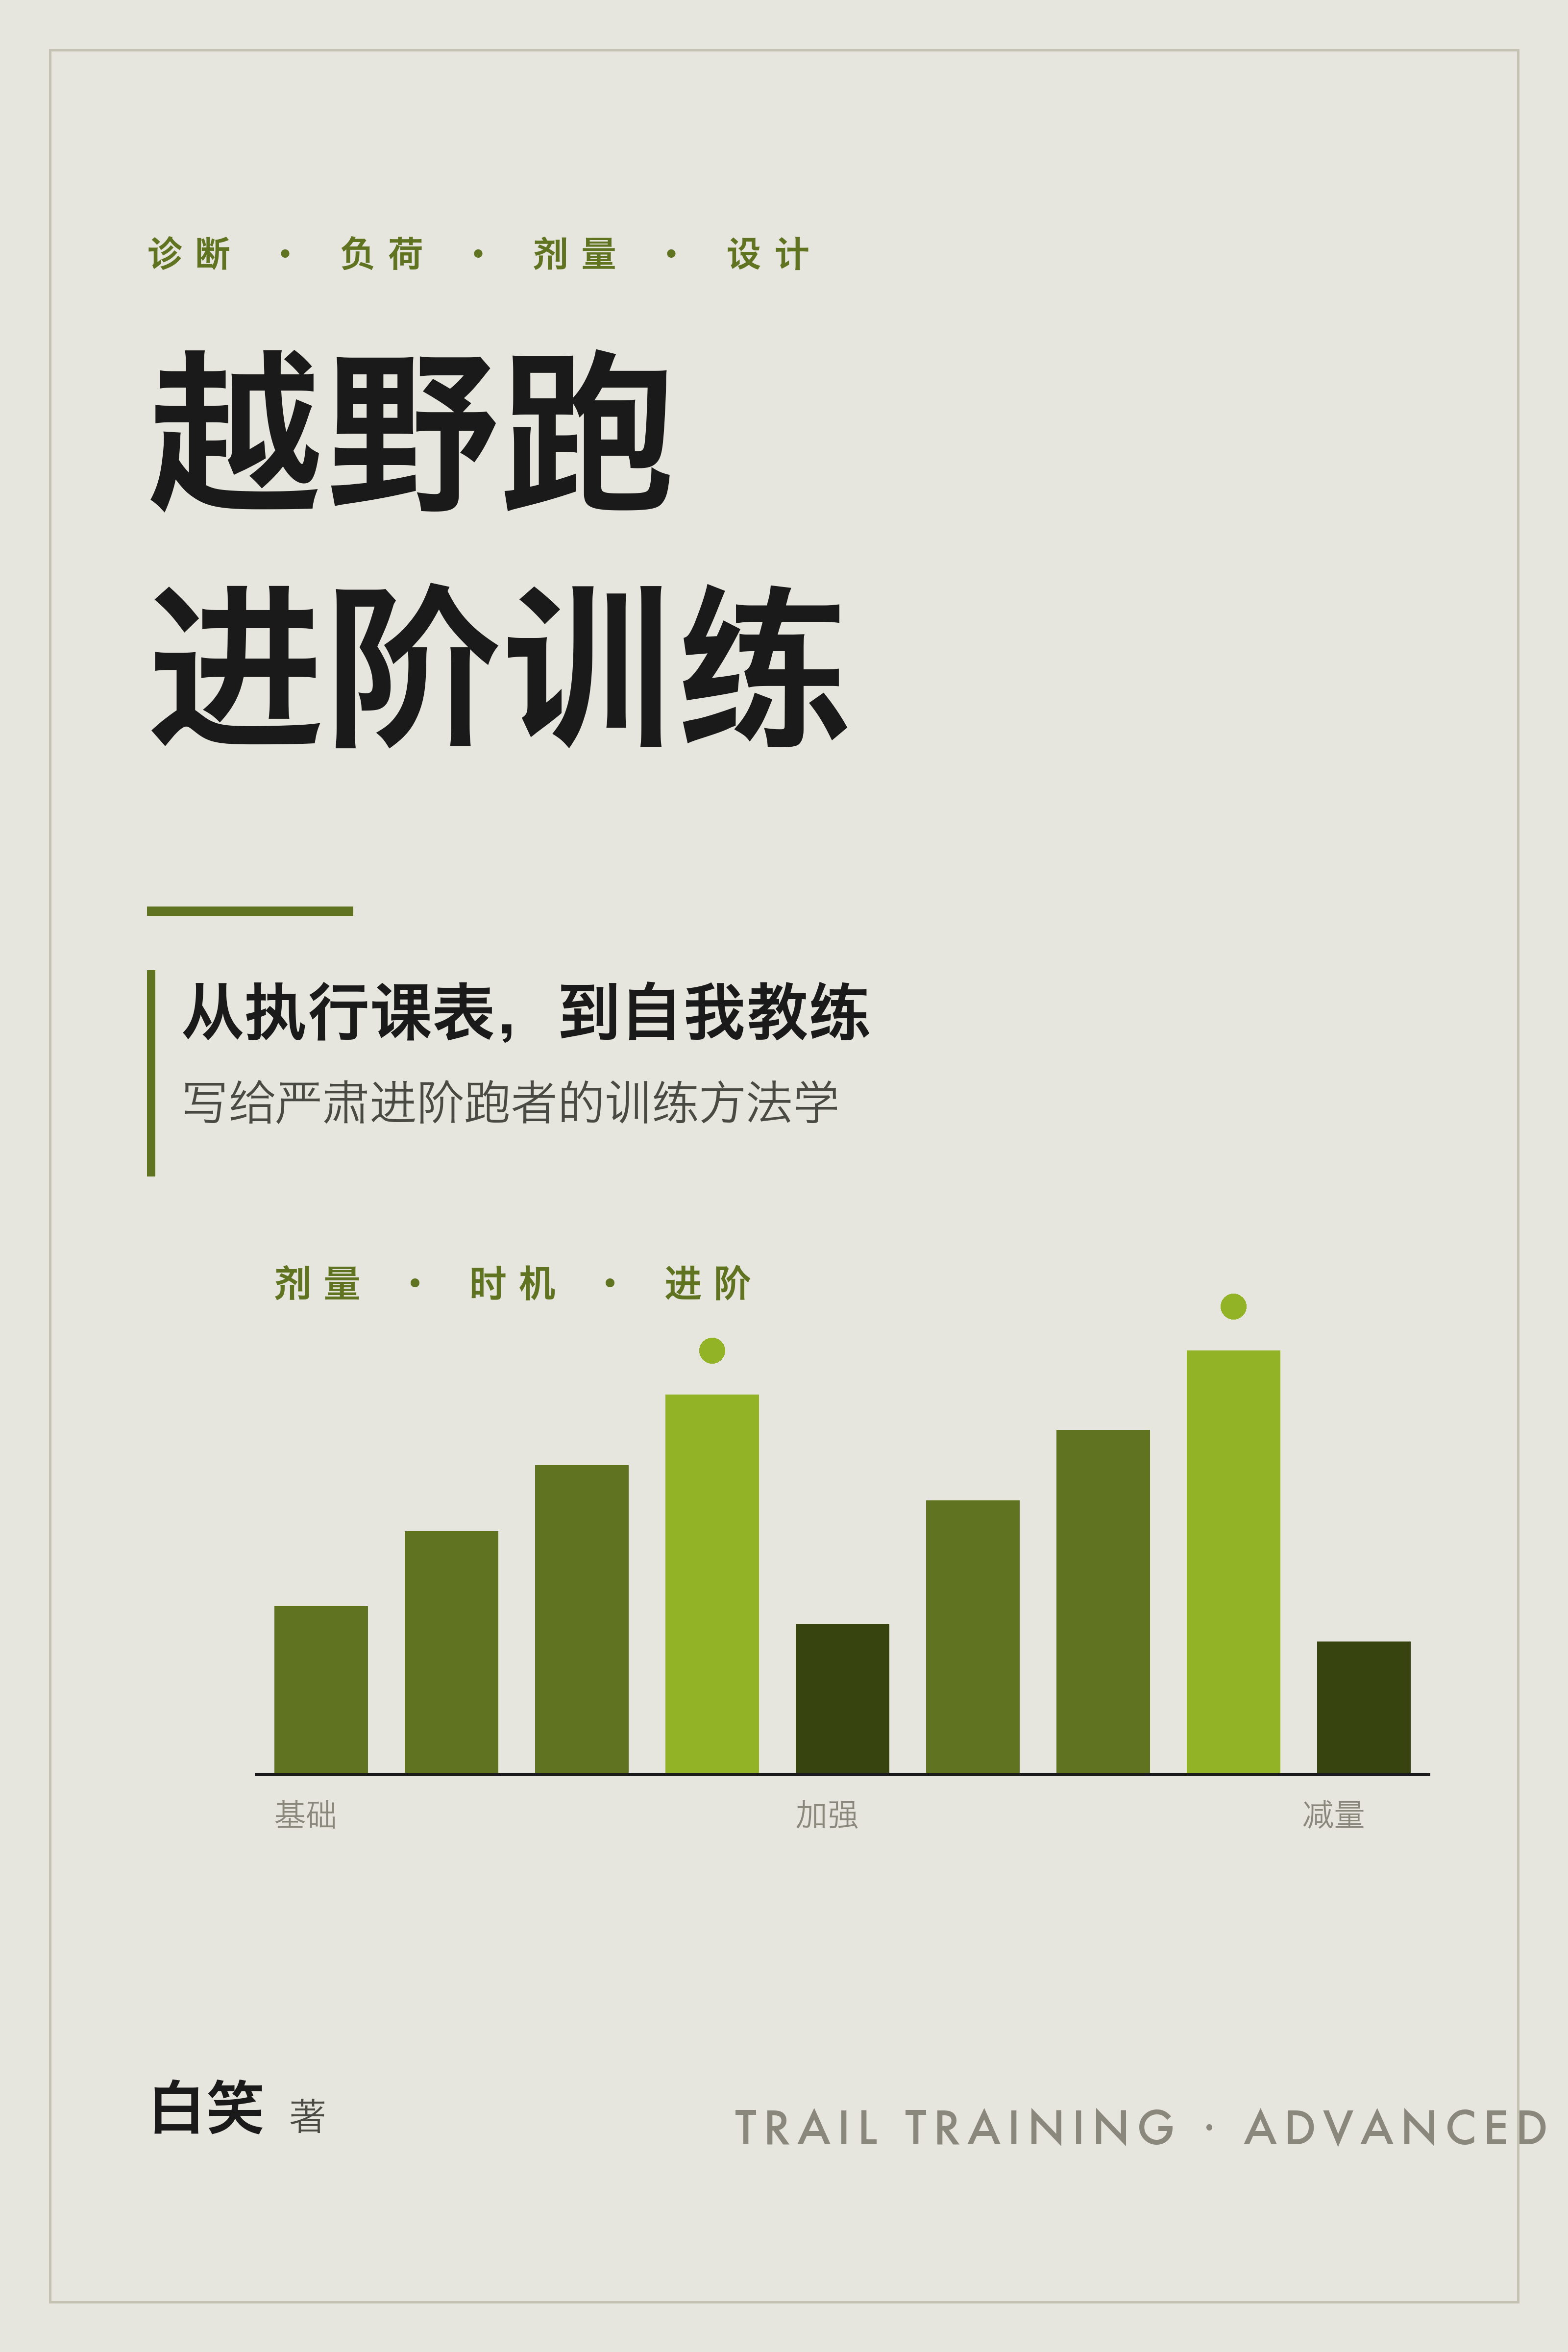
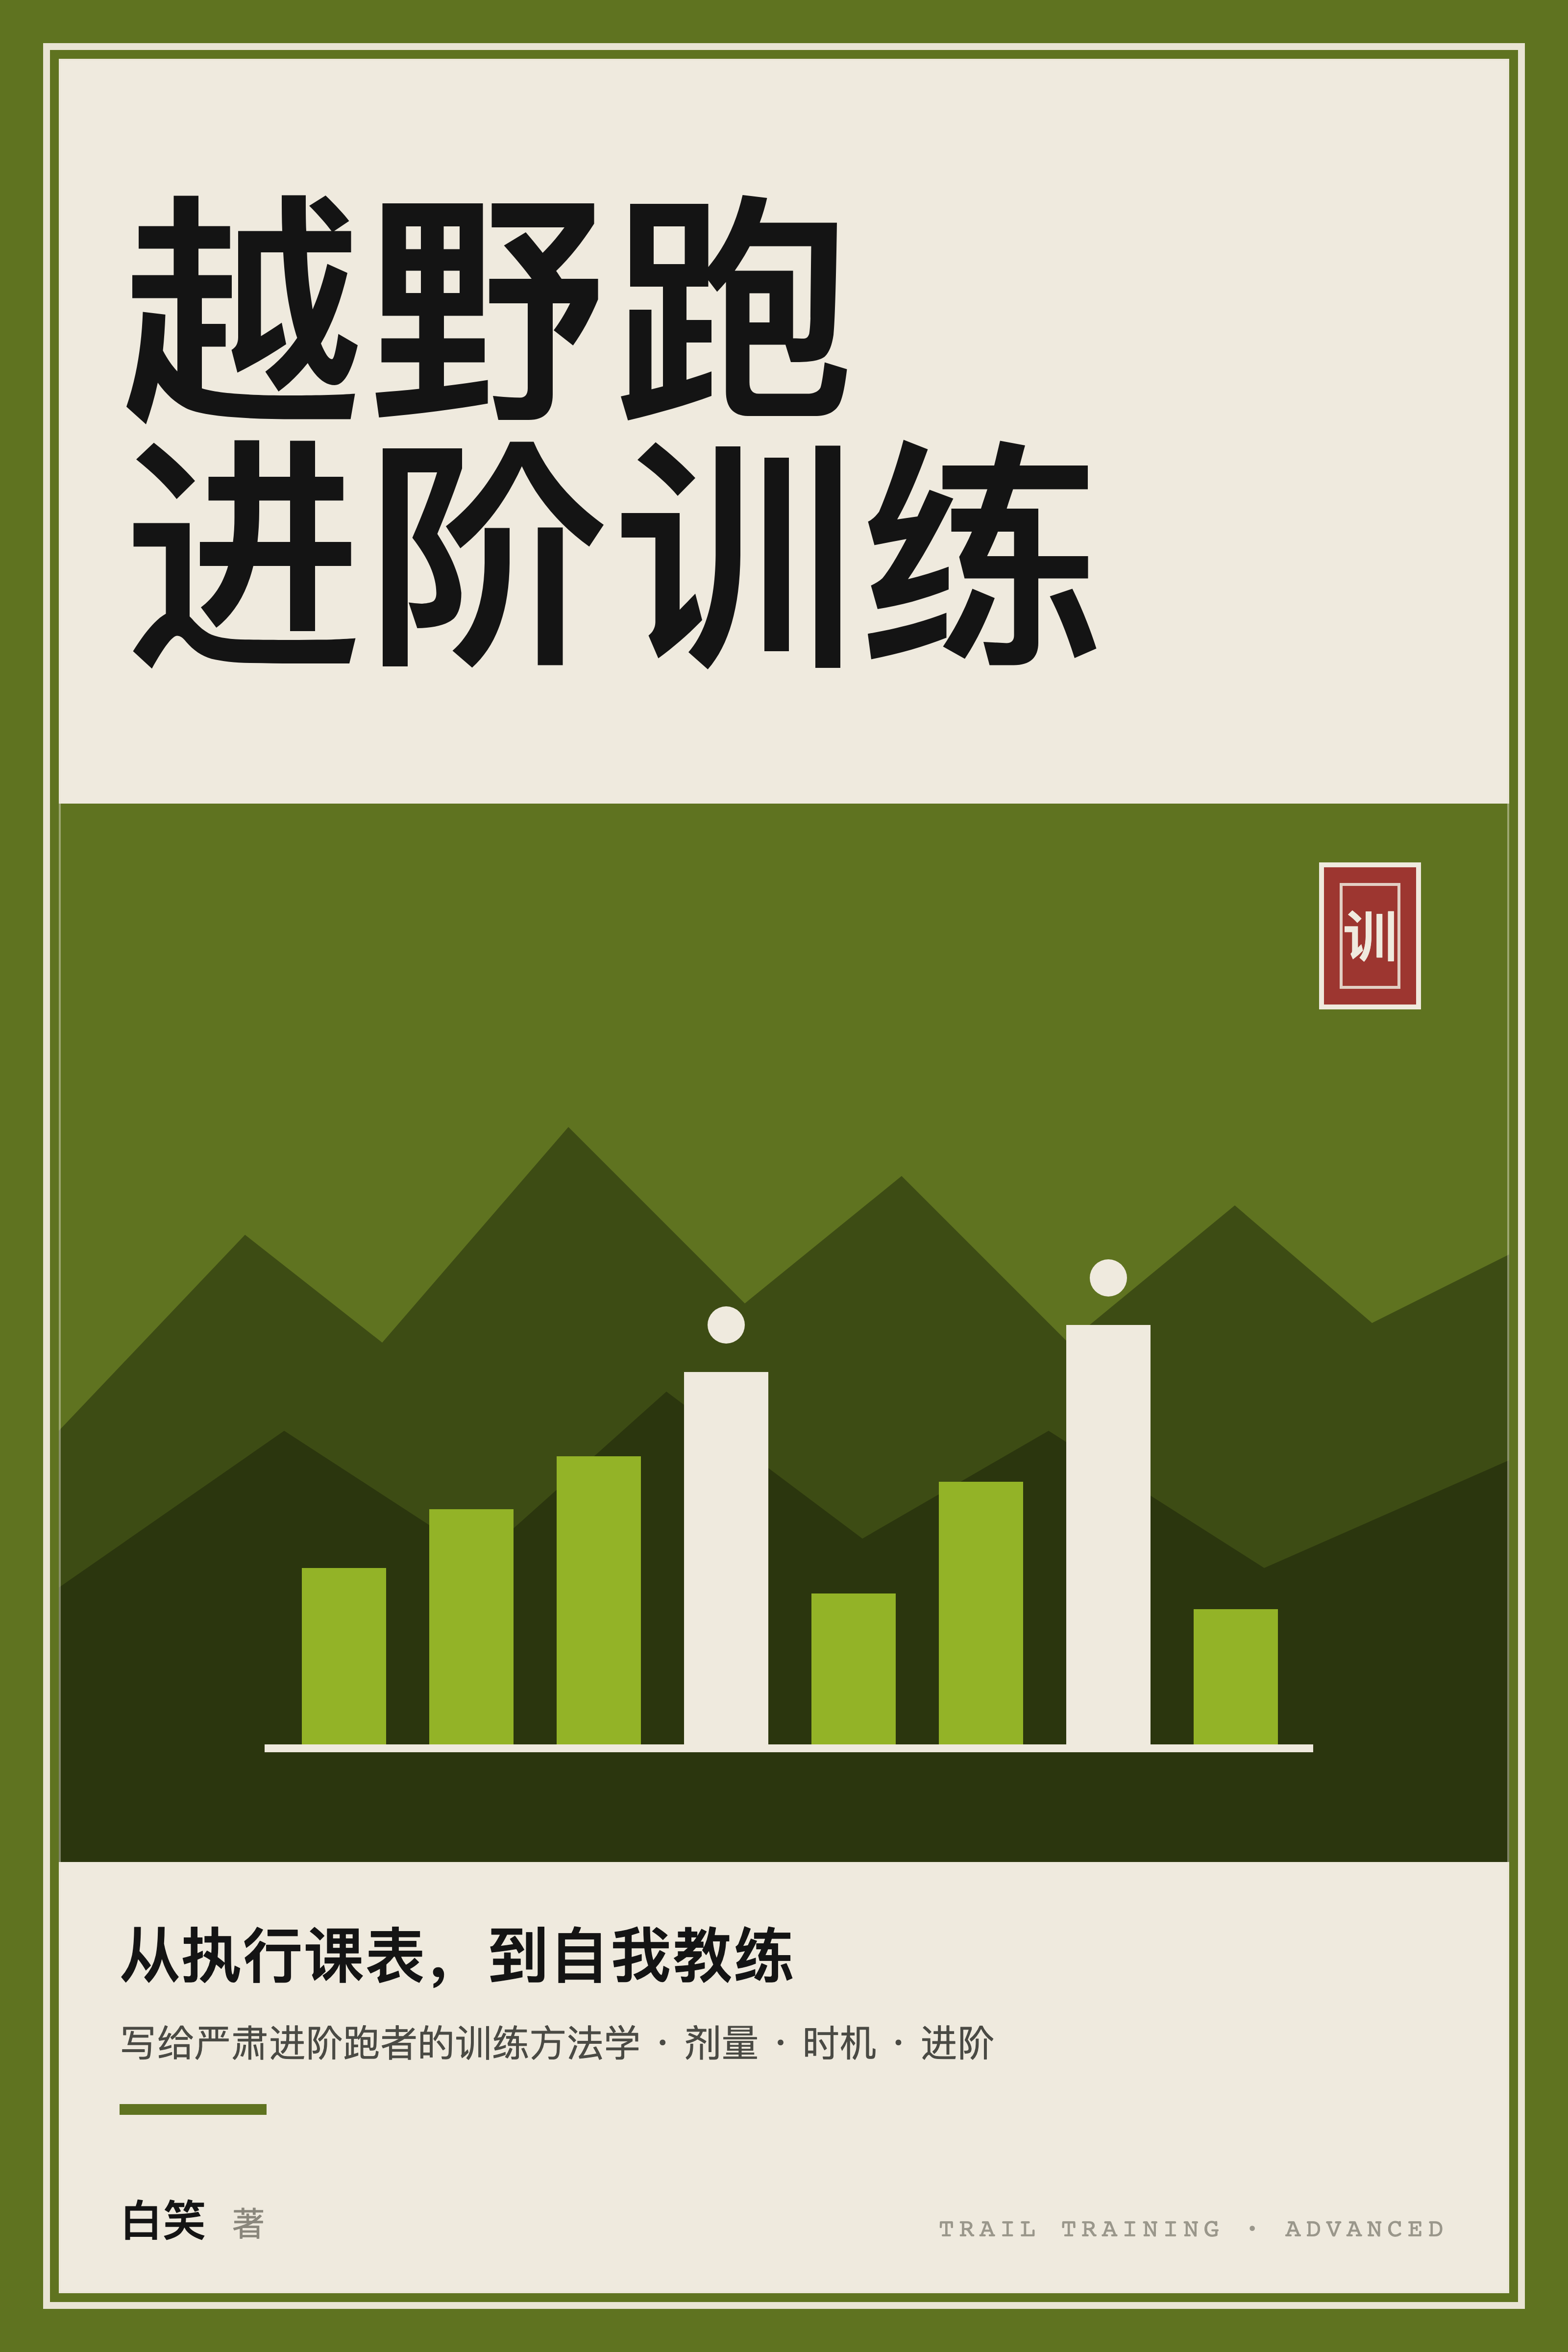
design(新书): 封面重做 — 回到粗黑体海报家族 + 苹方字体
白笑指出：「以前用的都是粗体黑体」。对照封面墙确认——康复科学 / 野外生存 /
跑步科学 / 马拉松手册 等都是「超粗黑体大标题压色块 + 复古插画 + 红印章 +
内描边框」的海报语言，而两本越野书是浅底细字的极简排版，脱离了家族。

两个错叠在一起：
1. 没查既有实现就自己发明——上一本书本来就有 assets/cover-src.html
   （HTML + playwright 渲染），我却另起炉灶用 PIL 画。
2. PIL 只认硬编码字体路径，/System/Library/Fonts/PingFang.ttc 不存在便
   静默退到 Hiragino Sans GB。苹方在 macOS 上不以独立 ttc 存在，「文件找
   不到」不等于「字体没有」——这正是「下限制结论前先查证一步」那条。
   改走浏览器渲染后，系统字体注册表直接解析，实测 PingFang SC 可用、字重 900。

本次做法（与上一本书对齐、可复现）：
- 新增 assets/cover-src.html，字体栈 "PingFang SC" 优先，Hiragino 仅作兜底
- 版式回归家族语言：米白标题块 + olive 色块底 + 山脊剪影 + 周期化柱群
  （书的核心意象：剂量/时机/进阶）+ 红印章「训」+ 双层内描边框
- playwright 渲染 1600×2400 @user → 3200×4800 PNG

diff --git a/reports/2026-07-trail-training/assets/cover-src.html b/reports/2026-07-trail-training/assets/cover-src.html
@@ -1,0 +1,93 @@
+<!DOCTYPE html>
+<html lang="zh-CN"><head><meta charset="utf-8">
+<style>
+  *{margin:0;padding:0;box-sizing:border-box;}
+  html,body{width:1600px;height:2400px;}
+  body{
+    background:#5f7320;
+    font-family:"PingFang SC","Hiragino Sans GB","Noto Sans SC","Heiti SC",sans-serif;
+    position:relative;overflow:hidden;
+  }
+
+  /* 外描边框（家族语言：内嵌一圈细框） */
+  .frame{position:absolute;top:44px;left:44px;right:44px;bottom:44px;
+         border:7px solid #e9e4d4;}
+  .frame2{position:absolute;top:60px;left:60px;right:60px;bottom:60px;
+          border:2px solid rgba(233,228,212,0.45);}
+
+  /* 标题区：米白底块，超粗黑体压满 */
+  .head{position:absolute;top:60px;left:60px;right:60px;height:760px;
+        background:#efeade;display:flex;flex-direction:column;
+        justify-content:center;padding:0 62px;}
+  .title{font-size:250px;font-weight:900;color:#141414;line-height:1.0;
+         letter-spacing:0.005em;white-space:nowrap;}
+
+  /* 印章 */
+  .seal{position:absolute;top:880px;right:150px;width:104px;height:150px;
+        background:#9d3630;border:5px solid #efeade;}
+  .seal i{position:absolute;inset:16px;border:3px solid rgba(239,234,222,0.85);
+          font-style:normal;color:#efeade;font-size:56px;font-weight:800;
+          display:flex;align-items:center;justify-content:center;letter-spacing:0;}
+
+  /* 插画：山脊剖面 + 周期化柱群（丝网印双色） */
+  .art{position:absolute;top:900px;left:60px;right:60px;height:1000px;overflow:hidden;}
+
+  /* 底部信息条 */
+  .foot{position:absolute;bottom:60px;left:60px;right:60px;height:440px;
+        background:#efeade;padding:56px 62px 0;}
+  .sub{font-size:62px;font-weight:800;color:#141414;line-height:1.25;letter-spacing:0.01em;}
+  .sub2{margin-top:22px;font-size:38px;font-weight:400;color:#4a4a44;line-height:1.5;}
+  .rule{margin-top:34px;width:150px;height:11px;background:#5f7320;}
+  .byline{position:absolute;bottom:44px;left:62px;font-size:44px;font-weight:700;color:#141414;}
+  .byline span{color:#8a877c;font-weight:400;font-size:34px;margin-left:12px;}
+  .en{position:absolute;bottom:52px;right:62px;font-size:26px;letter-spacing:0.2em;
+      color:#9a978b;font-family:"JetBrains Mono","SF Mono",monospace;}
+</style></head>
+<body>
+
+<div class="head">
+  <div class="title">越野跑</div>
+  <div class="title">进阶训练</div>
+</div>
+
+<div class="seal"><i>训</i></div>
+
+<div class="art">
+  <svg width="1480" height="1000" viewBox="0 0 1480 1000" xmlns="http://www.w3.org/2000/svg">
+    <!-- 远山（深色剪影） -->
+    <path d="M0 560 L190 360 L330 470 L520 250 L700 430 L860 300 L1030 470 L1200 330 L1340 450 L1480 380 L1480 1000 L0 1000 Z"
+          fill="#3d4c14"/>
+    <!-- 近山（更深） -->
+    <path d="M0 720 L230 560 L430 690 L620 520 L820 670 L1010 560 L1230 700 L1480 590 L1480 1000 L0 1000 Z"
+          fill="#2b360e"/>
+
+    <!-- 周期化柱群：书的核心意象（剂量 · 时机 · 进阶） -->
+    <g>
+      <rect x="248"  y="700" width="86" height="180" fill="#93b327"/>
+      <rect x="378"  y="640" width="86" height="240" fill="#93b327"/>
+      <rect x="508"  y="586" width="86" height="294" fill="#93b327"/>
+      <rect x="638"  y="500" width="86" height="380" fill="#efeade"/>
+      <rect x="768"  y="726" width="86" height="154" fill="#93b327"/>
+      <rect x="898"  y="612" width="86" height="268" fill="#93b327"/>
+      <rect x="1028" y="452" width="86" height="428" fill="#efeade"/>
+      <rect x="1158" y="742" width="86" height="138" fill="#93b327"/>
+    </g>
+    <!-- 峰值标记点 -->
+    <circle cx="681"  cy="452" r="19" fill="#efeade"/>
+    <circle cx="1071" cy="404" r="19" fill="#efeade"/>
+    <!-- 基线 -->
+    <rect x="210" y="880" width="1070" height="8" fill="#efeade"/>
+  </svg>
+</div>
+
+<div class="foot">
+  <div class="sub">从执行课表，到自我教练</div>
+  <div class="sub2">写给严肃进阶跑者的训练方法学 · 剂量 · 时机 · 进阶</div>
+  <div class="rule"></div>
+  <div class="byline">白笑 <span>著</span></div>
+  <div class="en">TRAIL TRAINING · ADVANCED</div>
+</div>
+
+<div class="frame"></div>
+<div class="frame2"></div>
+</body></html>